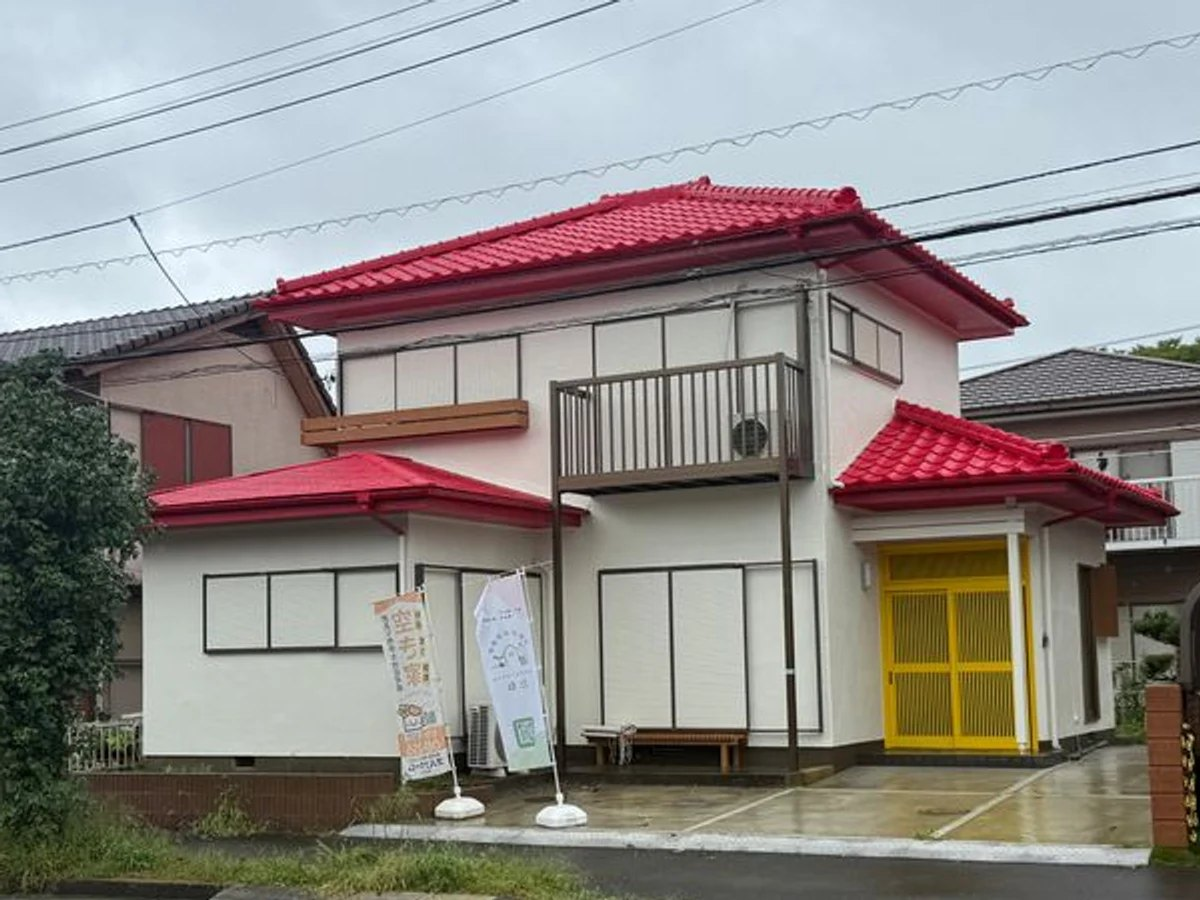
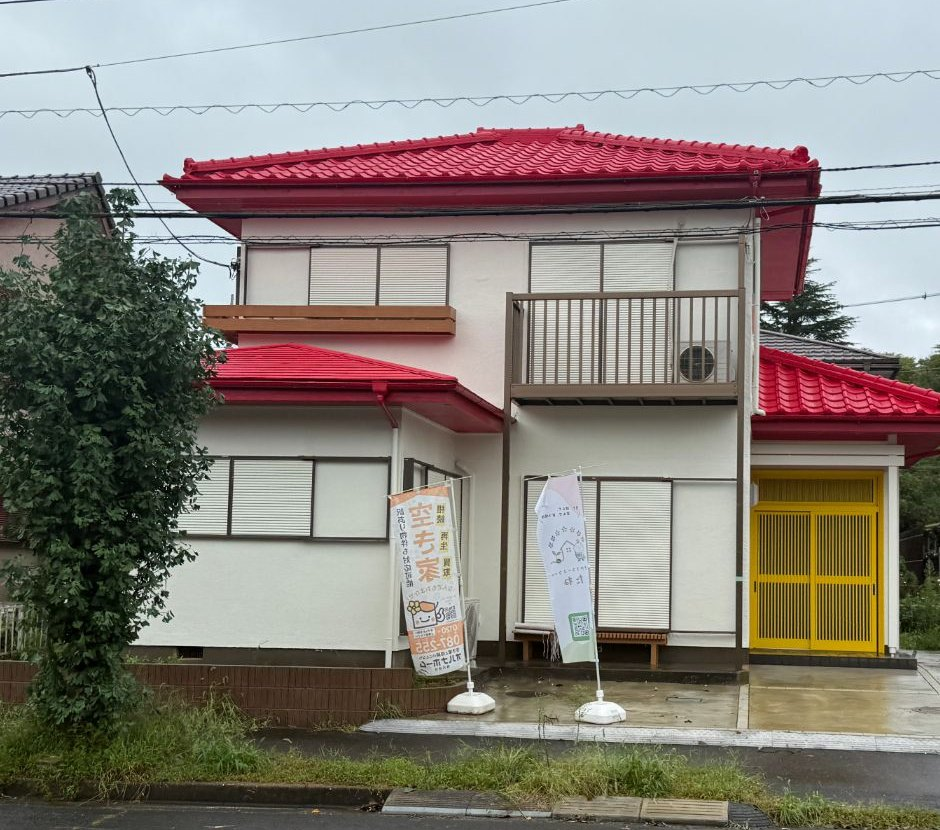
たねの外観ビフォーアフターを、まさおさん撮影の改修前写真（画角合わせ済み）に差し替え

diff --git a/index.html b/index.html
@@ -686,7 +686,7 @@
     <div class="cmp-grid">
       <div class="cmp clip-b"><img class="b" src="img/cmp_living_b2.jpg" alt="工事中の居室" loading="lazy" decoding="async"><img class="a" src="img/cmp_living_a2.jpg" alt="完成後の居室" loading="lazy" decoding="async"><div class="bar"></div><span class="lb bl">BEFORE</span><span class="lb al">AFTER</span><span class="room">居室</span><input type="range" min="0" max="100" value="50" aria-label="居室の前後を比較"></div>
       <div class="cmp clip-b"><img class="b" src="img/cmp_wash_b2.jpg" alt="工事中の洗面所" loading="lazy" decoding="async"><img class="a" src="img/cmp_wash_a2.jpg" alt="完成後の洗面所" loading="lazy" decoding="async"><div class="bar"></div><span class="lb bl">BEFORE</span><span class="lb al">AFTER</span><span class="room">洗面所</span><input type="range" min="0" max="100" value="50" aria-label="洗面所の前後を比較"></div>
-      <div class="cmp clip-b"><img class="b" src="img/cmp_tane_b.jpg" alt="改修前のたね（植栽とブロック塀が残る外観）" loading="lazy" decoding="async"><img class="a" src="img/cmp_tane_a.jpg" alt="現在のたね（赤い屋根と黄色い玄関）" loading="lazy" decoding="async"><div class="bar"></div><span class="lb bl">BEFORE</span><span class="lb al">AFTER</span><span class="room">フリースクール たね・外観</span><input type="range" min="0" max="100" value="50" aria-label="フリースクールたね外観の前後を比較"></div>
+      <div class="cmp clip-b"><img class="b" src="img/cmp_tane_b.jpg" alt="改修前のたね（木に覆われ、赤い雨戸が閉まったままの外観）" loading="lazy" decoding="async"><img class="a" src="img/cmp_tane_a.jpg" alt="現在のたね（赤い屋根と黄色い玄関）" loading="lazy" decoding="async"><div class="bar"></div><span class="lb bl">BEFORE</span><span class="lb al">AFTER</span><span class="room">フリースクール たね・外観</span><input type="range" min="0" max="100" value="50" aria-label="フリースクールたね外観の前後を比較"></div>
       <div class="cmp clip-b"><img class="b" src="img/cmp_k_wash_b2.jpg" alt="工事中の洗面所（戸建て2）" loading="lazy" decoding="async"><img class="a" src="img/cmp_k_wash_a2.jpg" alt="完成後の洗面所（戸建て2）" loading="lazy" decoding="async"><div class="bar"></div><span class="lb bl">BEFORE</span><span class="lb al">AFTER</span><span class="room">戸建て・洗面所</span><input type="range" min="0" max="100" value="50" aria-label="戸建て2洗面所の前後を比較"></div>
     </div>
     <div class="cmp-note">同一物件・同じ位置から撮影（画角を合わせて切り出し）</div>
@@ -1112,7 +1112,7 @@
     </div>
   </div>
   <div class="cmp-grid" style="margin-top:8px;grid-template-columns:1fr 1fr">
-    <div class="cmp clip-b" style="aspect-ratio:4/3"><img class="b" src="img/cmp_tane_b.jpg" alt="改修前のたね（植栽とブロック塀が残る外観）" loading="lazy" decoding="async"><img class="a" src="img/cmp_tane_a.jpg" alt="現在のたね（赤い屋根と黄色い玄関）" loading="lazy" decoding="async"><div class="bar"></div><span class="lb bl">BEFORE</span><span class="lb al">NOW</span><span class="room">同じ家、同じ角度</span><input type="range" min="0" max="100" value="50" aria-label="たね外観の前後を比較"></div>
+    <div class="cmp clip-b" style="aspect-ratio:4/3"><img class="b" src="img/cmp_tane_b.jpg" alt="改修前のたね（木に覆われ、赤い雨戸が閉まったままの外観）" loading="lazy" decoding="async"><img class="a" src="img/cmp_tane_a.jpg" alt="現在のたね（赤い屋根と黄色い玄関）" loading="lazy" decoding="async"><div class="bar"></div><span class="lb bl">BEFORE</span><span class="lb al">NOW</span><span class="room">同じ家、同じ角度</span><input type="range" min="0" max="100" value="50" aria-label="たね外観の前後を比較"></div>
     <div class="ph clip-b" style="aspect-ratio:4/3;overflow:hidden"><img src="img/tane_now.jpg" alt="現在のたね。赤い屋根と黄色い玄関" style="width:100%;height:100%;object-fit:cover" loading="lazy" decoding="async"></div>
   </div>
   <div class="cmp-note">左：改修前と現在を、同じ角度で。スライダーを動かして見比べられます</div>
